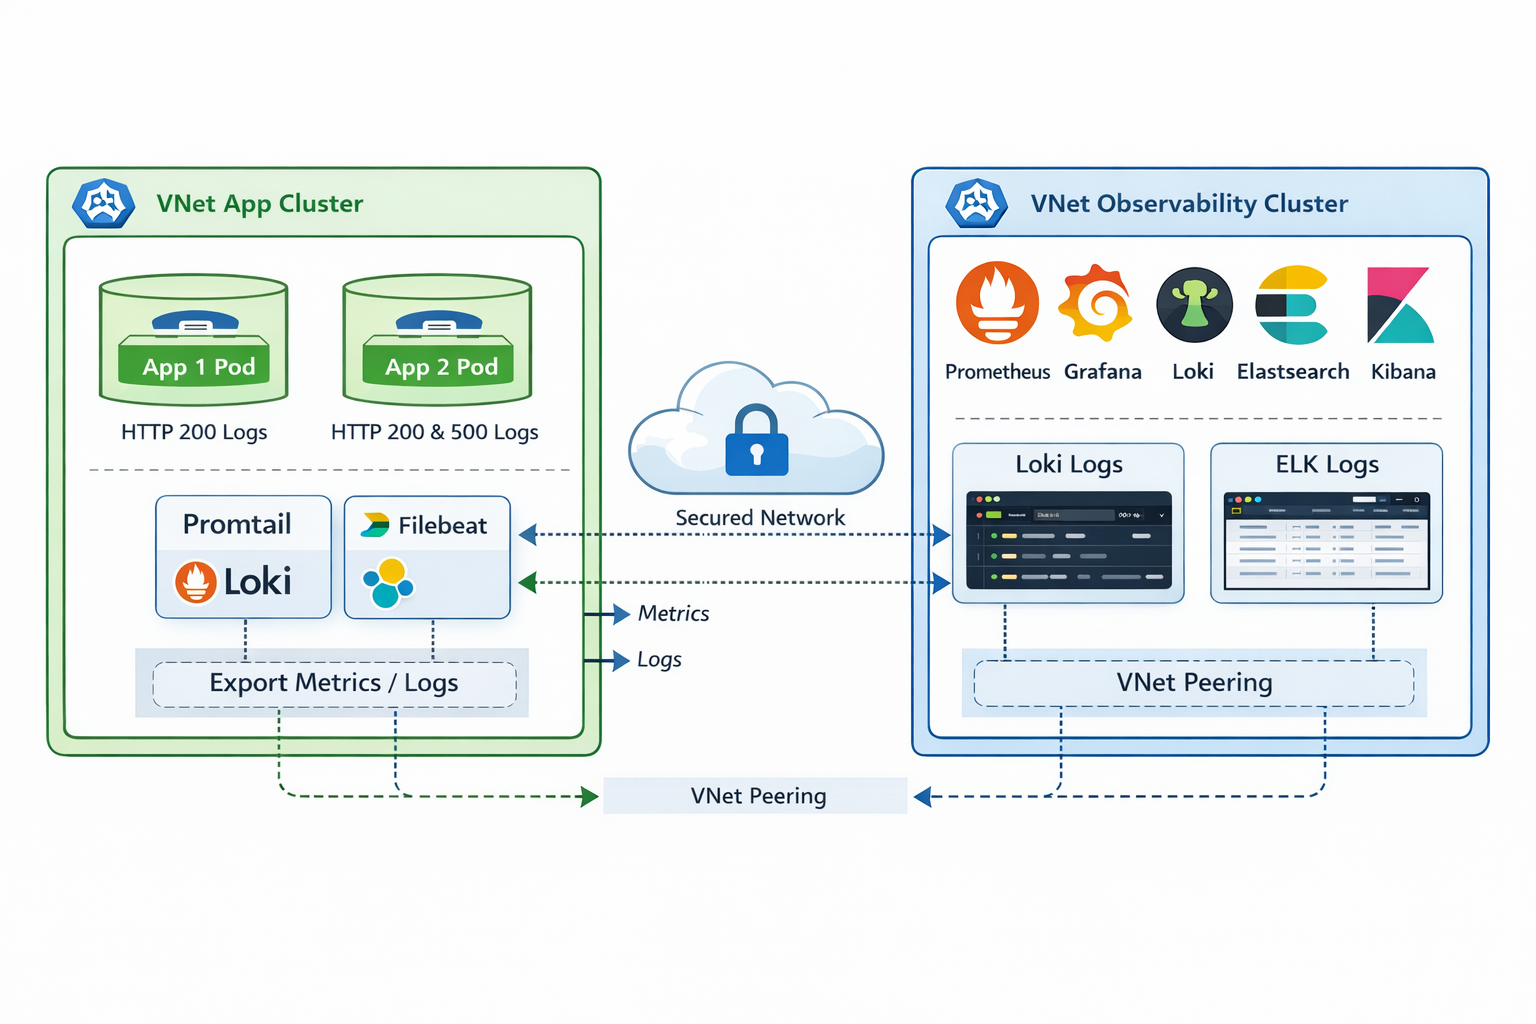
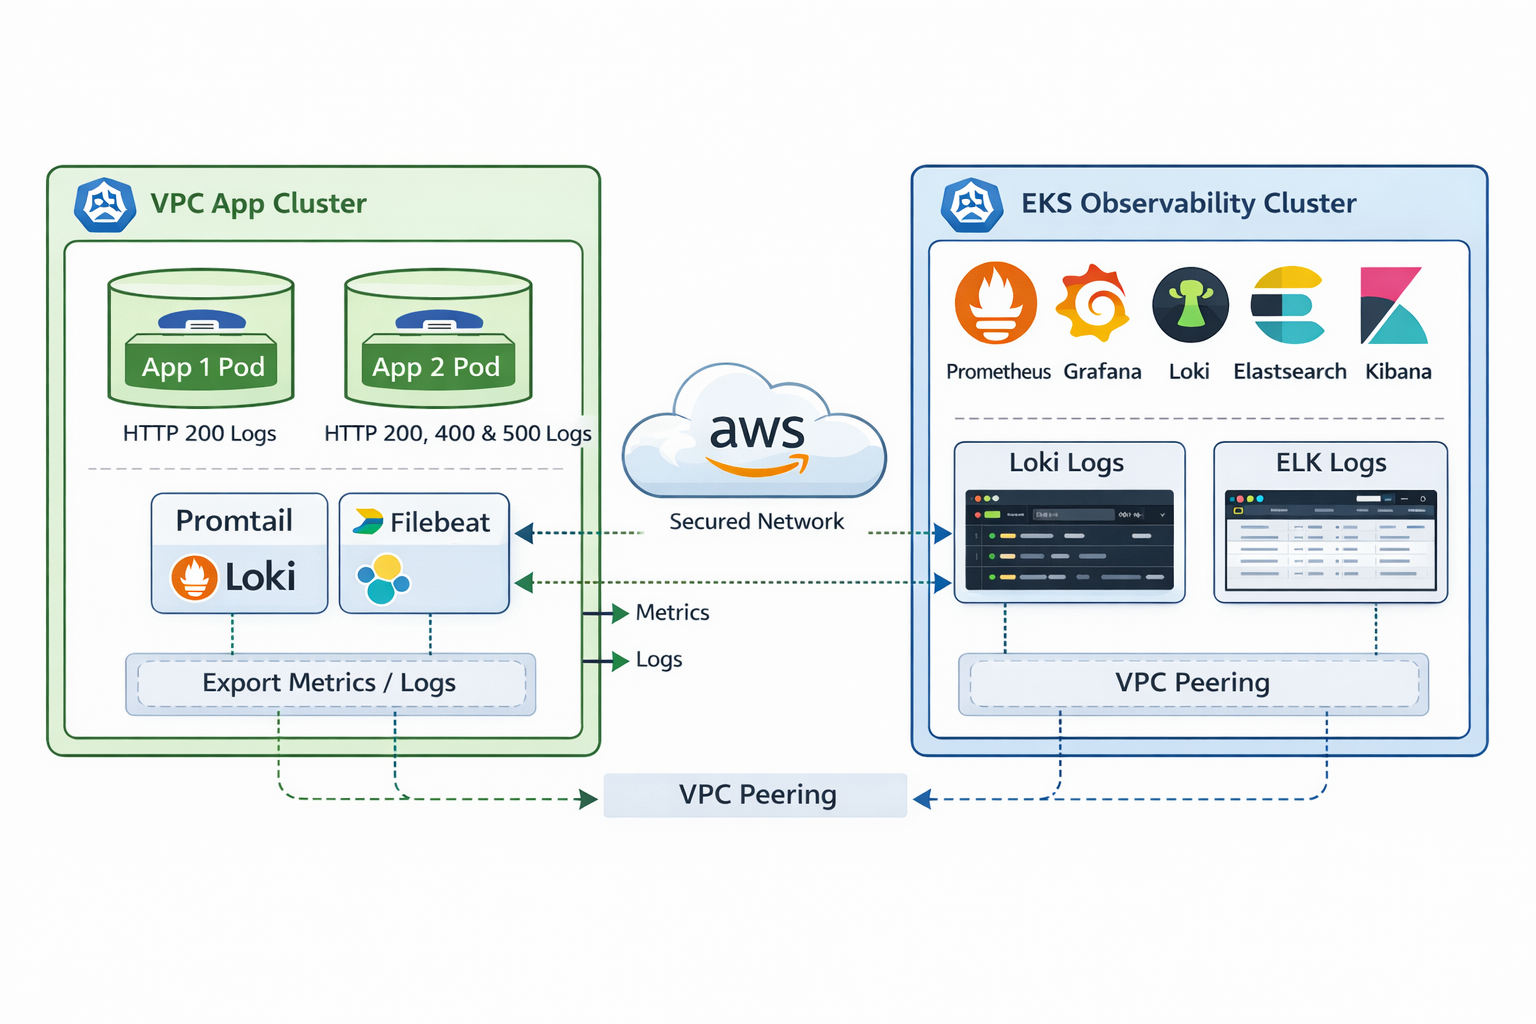
feat: update

diff --git a/README.md b/README.md
@@ -1,4 +1,4 @@
-# 🔎 Multi-Cluster Observability Architecture with Terraform on Kubernetes
+# 🔎 Multi-Cluster Observability Architecture with Terraform on AWS (EKS)
 
 ![observability](arquitetura_project-00.png)
 
@@ -6,27 +6,32 @@
 
 ## 📌 Sobre o Projeto
 
-Este projeto implementa uma arquitetura de observabilidade distribuída baseada em dois clusters Kubernetes isolados em **VNets separadas**, provisionados e gerenciados via **Terraform**:
+Este projeto implementa uma arquitetura de observabilidade distribuída baseada em dois clusters Kubernetes isolados em **VPCs separadas na AWS**, provisionados e gerenciados via **Terraform**.
 
-- 🟢 **Cluster de Aplicações**
-- 🔵 **Cluster de Observabilidade**
+Os clusters são executados no **Amazon EKS**.
+
+- 🟢 **Application Cluster**
+- 🔵 **Observability Cluster**
 
 O objetivo é:
 
 - Gerar logs e métricas em um cluster isolado
-- Exportar esses dados para outro cluster
+- Exportar esses dados para outro cluster via rede privada
 - Centralizar observabilidade
 - Comparar ingestão e consulta de logs via **Loki** e **ELK Stack**
 - Monitorar métricas com **Prometheus**
 - Visualizar tudo no **Grafana**
+- Simular respostas HTTP 2xx, 4xx e 5xx para validação de alertas
 
-Simula um cenário real de produção multi-ambiente com segregação de responsabilidades.
+Simula um cenário real corporativo multi-VPC com segregação de responsabilidades.
 
 ---
 
 # 🏗 Arquitetura da Solução
 
-## 🔵 Cluster 1 – Observability Cluster
+## 🔵 Cluster 1 – Observability Cluster (EKS)
+
+Provisionado em uma **VPC dedicada**.
 
 Responsável por:
 
@@ -37,41 +42,44 @@ Responsável por:
 - Logstash
 - Kibana
 
-Este cluster é isolado em sua própria VNet/Subnet.
-
-Recebe métricas e logs remotamente do cluster de aplicações.
+Recebe métricas e logs remotamente do Application Cluster.
 
 ---
 
-## 🟢 Cluster 2 – Application Cluster
+## 🟢 Cluster 2 – Application Cluster (EKS)
+
+Provisionado em uma **VPC separada**.
 
 Responsável por:
 
 - Duas aplicações de teste:
-  - App 1 – Geração de logs HTTP 200 frequentes
-  - App 2 – Geração de logs HTTP 200 e 500 simulados
+  - App 1 – Serviço estável (HTTP 200 constante)
+  - App 2 – Serviço com falhas controladas (HTTP 200 / 400 / 500)
 - Exportação de métricas via Prometheus
 - Exportação de logs via:
   - Promtail → Loki
-  - Filebeat → Logstash (ELK)
+  - Filebeat → Logstash
 
-Este cluster está em VNet separada, com comunicação controlada via peering.
+Comunicação entre VPCs ocorre via **VPC Peering**.
 
 ---
 
-# 🌐 Topologia de Rede
+# 🌐 Topologia de Rede (AWS)
 
-- VNet-App (Cluster Aplicação)
-- VNet-Observability (Cluster Monitoramento)
-- VNet Peering configurado
-- NSGs restringindo tráfego
-- Comunicação apenas nas portas necessárias
+- VPC-App (Application Cluster)
+- VPC-Observability (Monitoring Cluster)
+- VPC Peering configurado
+- Route Tables atualizadas
+- Security Groups restritivos
+- Subnets públicas e privadas
+- NAT Gateway para saída controlada
 
 Segregação garante:
 
-✔ Isolamento  
-✔ Segurança  
-✔ Simulação de ambiente corporativo real  
+✔ Isolamento entre workloads  
+✔ Segurança de rede  
+✔ Arquitetura enterprise real  
+✔ Comunicação privada entre clusters  
 
 ---
 
@@ -83,17 +91,19 @@ Segregação garante:
 - Node Exporter
 - Kube State Metrics
 - Remote Scraping entre clusters
+- Métricas por status HTTP (2xx, 4xx, 5xx)
+- Error rate por aplicação
 
 ## 📜 Logs
 
 ### Loki Stack
-- Promtail (no cluster app)
-- Loki (cluster observability)
-- Consulta via Grafana
+- Promtail (Application Cluster)
+- Loki (Observability Cluster)
+- Visualização via Grafana
 
 ### ELK Stack
-- Filebeat (cluster app)
-- Logstash (cluster observability)
+- Filebeat (Application Cluster)
+- Logstash (Observability Cluster)
 - Elasticsearch
 - Visualização via Kibana
 
@@ -101,75 +111,69 @@ Segregação garante:
 
 # ⚙ Aplicações de Teste
 
-Duas aplicações simples (exemplo: Node.js ou .NET Minimal API):
+Duas aplicações simples (Node.js ou .NET):
 
-### App 1
+---
+
+## 🟢 App 1 – Healthy Service
+
 - Endpoint `/health`
-- Retorna 200 constantemente
-- Gera log a cada request
+- Retorna **HTTP 200 constantemente**
+- Gera logs estruturados
+- Serve como baseline de comparação
 
-### App 2
+---
+
+## 🔴 App 2 – Controlled Failure Service
+
 - Endpoint `/`
-- 80% status 200
-- 20% status 500 simulados
-- Logs estruturados (JSON)
+- ~60% → HTTP 200
+- ~25% → HTTP 400
+- ~15% → HTTP 500
 
-Logs incluem:
+Logs estruturados contendo:
+
 - Timestamp
 - Status code
 - Latência
 - Hostname
 - Correlation ID
 
+Objetivo:
+
+- Validar monitoramento de error rate
+- Criar alertas apenas para 5xx
+- Correlacionar métricas com logs
+- Simular ambiente de produção real
+
 ---
 
 # 🔄 Fluxo de Dados
 
 1⃣ Aplicação gera log  
-2⃣ Log é coletado por Promtail e Filebeat  
+2⃣ Promtail e Filebeat coletam logs  
 3⃣ Logs enviados para:
    - Loki
    - Logstash → Elasticsearch  
-4⃣ Métricas expostas via `/metrics`  
-5⃣ Prometheus faz scrape remoto  
-6⃣ Grafana centraliza dashboards  
+4⃣ Aplicações expõem `/metrics`  
+5⃣ Prometheus realiza scrape remoto  
+6⃣ Grafana consolida dashboards  
 
 ---
 
-# 📂 Estrutura de Pastas Recomendada (Terraform)
+# 📂 Estrutura de Pastas Recomendada (Terraform AWS)
 
 ```
-multi-cluster-observability/
+multi-cluster-observability-aws/
 ├── modules/
 │   ├── vpc/
-│   │   ├── main.tf
-│   │   ├── variables.tf
-│   │   └── outputs.tf
-│   ├── cluster-app/
-│   │   ├── main.tf
-│   │   ├── variables.tf
-│   │   └── outputs.tf
-│   ├── cluster-observability/
-│   │   ├── main.tf
-│   │   ├── variables.tf
-│   │   └── outputs.tf
-│   ├── network-peering/
-│   │   ├── main.tf
-│   │   ├── variables.tf
-│   │   └── outputs.tf
+│   ├── eks-cluster/
+│   ├── vpc-peering/
+│   ├── iam/
 │   └── helm-charts/
-│       ├── prometheus/
-│       ├── loki/
-│       └── elasticstack/
 ├── environments/
 │   ├── dev/
-│   │   ├── main.tf
-│   │   ├── variables.tfvars
-│   │   └── backend.tf
 │   └── prod/
-│       ├── main.tf
-│       ├── variables.tfvars
-│       └── backend.tf
 ├── scripts/
 │   ├── deploy-apps.sh
 │   └── metrics-export.sh
@@ -177,83 +181,81 @@ multi-cluster-observability/
 └── .gitignore
 ```
 
-**Descrição:**
-
-- **modules/** – Módulos Terraform para VPCs, clusters Kubernetes e Helm charts  
-- **environments/** – Configurações por ambiente (dev, prod)  
-- **scripts/** – Scripts auxiliares para deploy de apps e coleta de métricas  
-- **README.md** – Documentação do projeto  
-- **.gitignore** – Ignorar arquivos sensíveis e estados do Terraform  
-
 ---
 
 # 🚀 Provisionamento com Terraform
 
-## 1⃣ Inicializar Terraform
+## 1⃣ Inicializar
 
 ```bash
 terraform init
 ```
 
-## 2⃣ Validar e Planejar
+## 2⃣ Planejar
 
 ```bash
 terraform plan -var-file=variables.tfvars
 ```
 
-## 3⃣ Aplicar Infraestrutura
+## 3⃣ Aplicar
 
 ```bash
 terraform apply -var-file=variables.tfvars --auto-approve
 ```
 
-### Recursos Provisionados
+---
 
-- Duas VPCs separadas
-- Clusters Kubernetes gerenciados (EKS ou AKS/GKE)
-- Network Peering entre clusters
-- NSGs/Segurança de rede
-- Helm Charts:
-  - Prometheus Stack
-  - Loki Stack
-  - ELK Stack
+# ☁ Recursos AWS Provisionados
+
+- 2 VPCs
+- Subnets públicas e privadas
+- Internet Gateway
+- NAT Gateway
+- Route Tables
+- VPC Peering
+- Security Groups
+- IAM Roles para EKS (IRSA)
+- 2 Clusters Amazon EKS
+- Helm Charts (Prometheus, Loki, ELK)
 - Aplicações de teste
-- Dashboards Grafana configurados
-- Centralização de logs e métricas
+- Dashboards Grafana
 
 ---
 
 # 🔐 Segurança Aplicada
 
-- Clusters em VNets separadas
-- Network Policies no Kubernetes
-- TLS entre componentes
+- Clusters em VPCs separadas
+- Comunicação privada via peering
+- Security Groups restritivos
+- IAM Roles for Service Accounts (IRSA)
+- TLS interno
 - RBAC configurado
-- Secretos via Kubernetes Secrets
-- Comunicação restrita via NSG
+- Segregação por subnets privadas
 
 ---
 
 # 📈 Resultados Técnicos
 
-✔ Dois clusters isolados e comunicando via peering  
-✔ Logs ingeridos simultaneamente em Loki e ELK  
+✔ Dois clusters EKS isolados  
+✔ Comunicação privada entre VPCs  
+✔ Logs ingeridos em Loki e ELK simultaneamente  
 ✔ Métricas centralizadas  
-✔ Dashboards funcionais  
-✔ Simulação realista de ambiente corporativo  
+✔ Monitoramento de 2xx, 4xx e 5xx  
+✔ Alertas baseados em falhas críticas (5xx)  
+✔ Arquitetura pronta para produção  
 
 ---
 
 # 📚 Aprendizados Aplicados
 
-- Arquitetura multi-cluster Kubernetes
+- Arquitetura multi-cluster com Amazon EKS
+- VPC Peering na AWS
+- Segurança com Security Groups e IAM
 - Observabilidade distribuída
-- Comparação prática Loki vs ELK
-- Segurança em redes segmentadas
 - Remote scraping Prometheus
 - Logs estruturados e correlação
 - Provisionamento automatizado com Terraform
-- Padronização de Helm Charts
+- Deploy automatizado via Helm
 
 ---
 
@@ -267,4 +269,4 @@ Considere:
 
 ---
 
-> Este projeto demonstra arquitetura multi-cluster com centralização de observabilidade, provisionada com Terraform, comparando Loki e ELK Stack em ambiente isolado.
+> Este projeto demonstra arquitetura multi-cluster na AWS utilizando Amazon EKS, com centralização de observabilidade e simulação de falhas HTTP para validação completa de métricas, logs e alertas em ambiente isolado.
